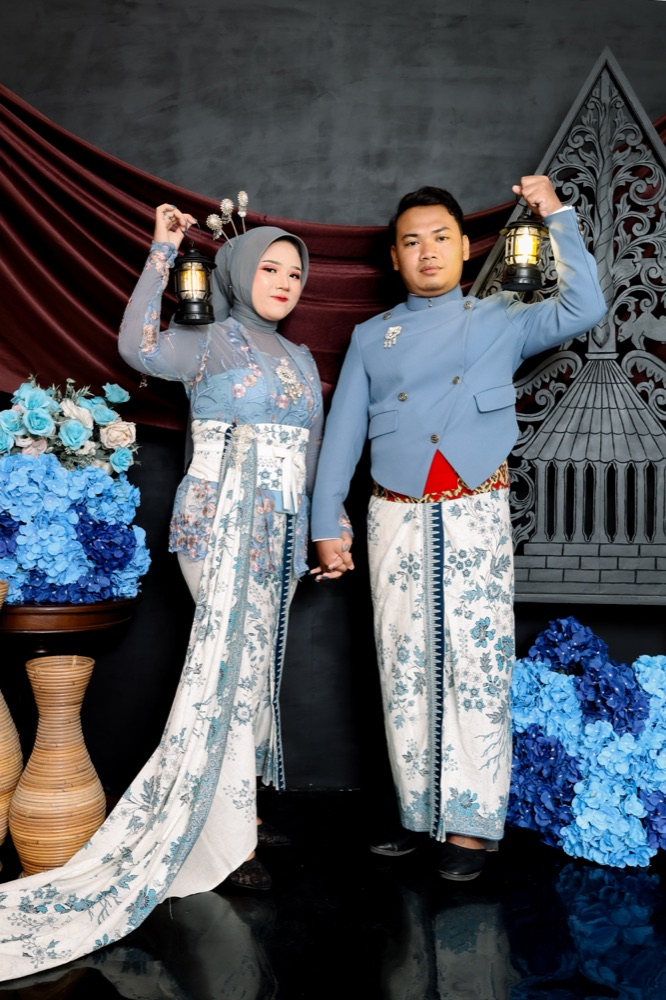
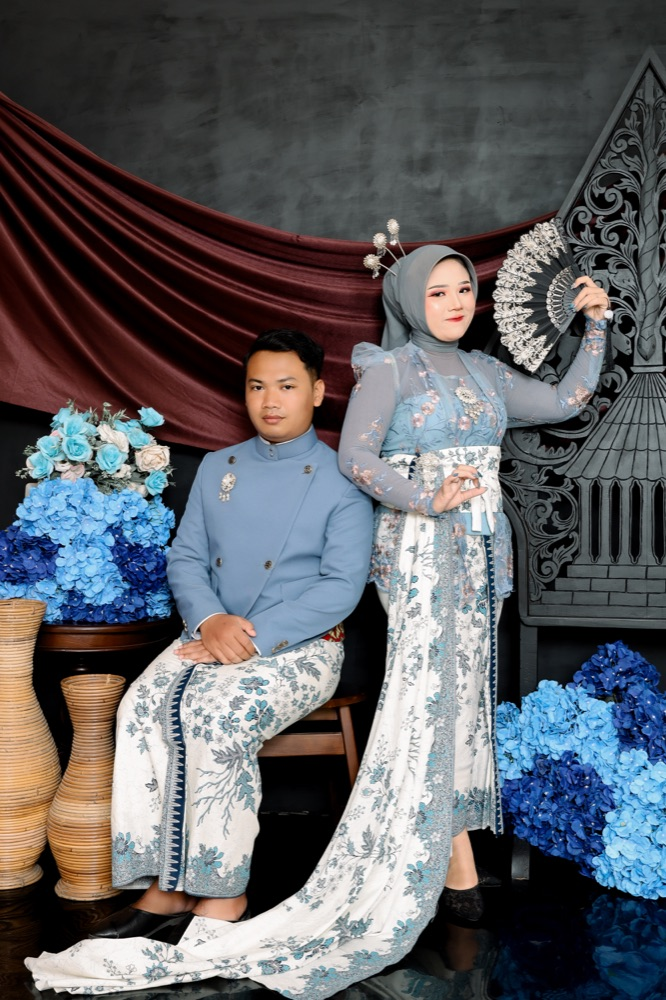
Galeri jadi 7 foto (ganti foto lentera, tambah 3) + rapikan menu bawah di HP

diff --git a/index.html b/index.html
@@ -293,6 +293,8 @@ h2.title.script{font-size:2.7rem;font-weight:600}
   box-shadow:0 6px 18px rgba(27,38,53,.18);transition:transform .25s ease;
 }
 .gallery button:hover{transform:scale(1.02)}
+/* jumlah foto ganjil → yang terakhir melebar penuh biar barisnya tidak pincang */
+.gallery button:last-child{grid-column:1/-1;aspect-ratio:4/3}
 .gallery img{width:100%;height:100%;object-fit:cover;display:block}
 
 #lightbox{
@@ -397,19 +399,22 @@ footer .names{font-size:2.5rem;color:var(--gold-l)}
   display:none;gap:2px;align-items:center;
   background:linear-gradient(135deg,var(--blue-800),var(--blue-950));
   border:1px solid rgba(217,187,140,.45);border-radius:999px;
-  padding:8px 12px;box-shadow:0 10px 30px rgba(0,0,0,.4);
-  max-width:calc(100% - 24px);
+  padding:8px 6px;box-shadow:0 10px 30px rgba(0,0,0,.4);
+  width:calc(100% - 20px);max-width:460px;justify-content:space-between;
 }
 #bottomNav.visible{display:flex}
 .nav-item{
   display:flex;flex-direction:column;align-items:center;gap:2px;
-  text-decoration:none;padding:4px 10px;border-radius:14px;
+  text-decoration:none;padding:4px 7px;border-radius:14px;flex:1 1 0;min-width:0;
   font-size:.58rem;letter-spacing:.05em;font-weight:500;white-space:nowrap;
   color:#BFA980;transition:color .25s ease;
 }
 .nav-item svg{width:20px;height:20px}
 .nav-item.active{color:var(--gold-l);background:rgba(217,187,140,.16)}
-@media (max-width:360px){ .nav-item{padding:4px 7px} }
+@media (max-width:380px){
+  .nav-item{padding:4px 4px;font-size:.54rem;letter-spacing:.02em}
+  .nav-item svg{width:18px;height:18px}
+}
 </style>
 </head>
 <body>
@@ -579,6 +584,18 @@ footer .names{font-size:2.5rem;color:var(--gold-l)}
       <button type="button" aria-label="Perbesar foto 4">
         <picture><source srcset="foto/galeri-4.webp" type="image/webp">
         <img src="foto/galeri-4.jpg" alt="Prewedding Agus &amp; Nisa 4" loading="lazy" decoding="async" width="667" height="1000"></picture>
+      </button>
+      <button type="button" aria-label="Perbesar foto 5">
+        <picture><source srcset="foto/galeri-5.webp" type="image/webp">
+        <img src="foto/galeri-5.jpg" alt="Prewedding Agus &amp; Nisa 5" loading="lazy" decoding="async" width="667" height="1000"></picture>
+      </button>
+      <button type="button" aria-label="Perbesar foto 6">
+        <picture><source srcset="foto/galeri-6.webp" type="image/webp">
+        <img src="foto/galeri-6.jpg" alt="Prewedding Agus &amp; Nisa 6" loading="lazy" decoding="async" width="667" height="1000"></picture>
+      </button>
+      <button type="button" aria-label="Perbesar foto 7">
+        <picture><source srcset="foto/galeri-7.webp" type="image/webp">
+        <img src="foto/galeri-7.jpg" alt="Prewedding Agus &amp; Nisa 7" loading="lazy" decoding="async" width="667" height="1000"></picture>
       </button>
     </div>
   </section>
